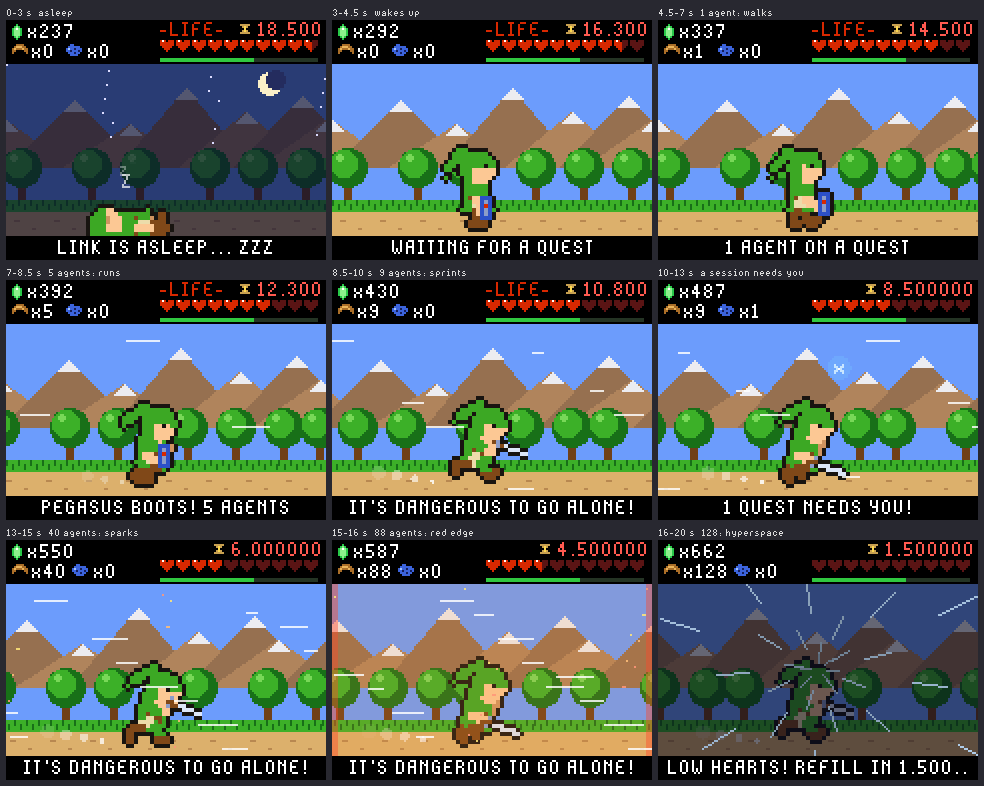
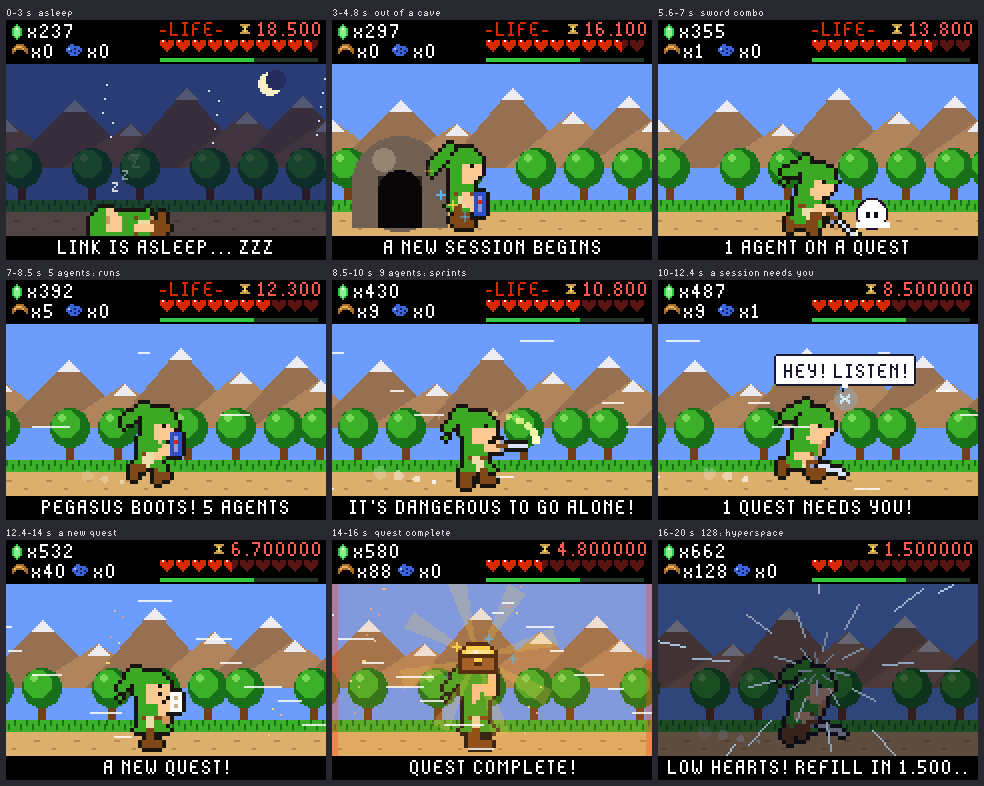
Docs: video shot list and storyboard with the new animations
Claude-Session: https://claude.ai/code/session_01KAaQGm77bCjqrEoZFBN1Bi

diff --git a/tools/sim/video_storyboard.py b/tools/sim/video_storyboard.py
@@ -15,10 +15,11 @@ import scene as S  # noqa: E402
 
 APP = os.path.join(os.path.dirname(TOOLS), "badge", "apps", "burn_helper", "__init__.py")
 OUT = os.path.join(os.path.dirname(TOOLS), "docs", "img", "video_storyboard.png")
-BEATS = ((1.5, "0-3 s  asleep"), (3.7, "3-4.5 s  wakes up"), (5.5, "4.5-7 s  1 agent: walks"),
+BEATS = ((1.5, "0-3 s  asleep"), (3.9, "3-4.8 s  out of a cave"), (6.2, "5.6-7 s  sword combo"),
          (7.7, "7-8.5 s  5 agents: runs"), (9.2, "8.5-10 s  9 agents: sprints"),
-         (11.5, "10-13 s  a session needs you"), (14.0, "13-15 s  40 agents: sparks"),
-         (15.5, "15-16 s  88 agents: red edge"), (18.5, "16-20 s  128: hyperspace"))
+         (11.5, "10-12.4 s  a session needs you"), (13.3, "12.4-14 s  a new quest"),
+         (15.2, "14-16 s  quest complete"), (18.5, "16-20 s  128: hyperspace"))
+T0 = 10000      # the simulated clock when the take starts (keeps warm-up frames positive)
 
 
 def demo_code():
@@ -28,11 +29,11 @@ def demo_code():
 
 
 def main():
-    clock = {"ms": 0}
+    clock = {"ms": T0}
     ns = {"S": S, "st": S.Status(), "view": 0, "demo": 0, "demo_t0": 0,
           "time": types.SimpleNamespace(ticks_ms=lambda: clock["ms"], ticks_diff=lambda a, b: a - b,
-                                        ticks_us=lambda: 0),
-          "views": types.SimpleNamespace(WAITING=3), "prefs": {"theme": "hero"}, "switch": lambda **k: None}
+                                        ticks_add=lambda a, b: a + b, ticks_us=lambda: 0),
+          "views": types.SimpleNamespace(DESKTOP=1), "prefs": {"theme": "hero"}, "switch": lambda **k: None}
     exec(demo_code(), ns)
     ns["set_demo"](2)
     theme = sm.load("hero")
@@ -42,10 +43,12 @@ def main():
     big.clear()
     big.font = pvshim.font.sins
     for i, (sec, label) in enumerate(BEATS):
-        clock["ms"] = int(sec * 1000)
+        clock["ms"] = T0 + int(sec * 1000)
         ns["demo_status"](clock["ms"])
         theme.last_t = None
-        img = sm.render(theme, ns["st"], clock["ms"] + 5000)
+        theme.action = None
+        theme.act_seen = 0
+        img = sm.render(theme, ns["st"], clock["ms"])
         x = pad + (i % cols) * (160 * scale + pad)
         y = pad + (i // cols) * (120 * scale + pad + 14)
         big.pen = pvshim.color(220, 220, 220)

diff --git a/docs/video.md b/docs/video.md
@@ -1,8 +1,8 @@
 # Recording the 20-second demo video
 
 The badge has a hidden demo built for this video: a 20-second take that goes from asleep to
-hyperspace on its own, with a session asking for you in the middle and the hearts draining to
-the end. It shows example numbers only, so nothing personal ends up on camera, and it needs no
+hyperspace on its own, with a sword fight, a session asking for you in the middle, a finished
+quest and the hearts draining to the end. It shows example numbers only, so nothing personal ends up on camera, and it needs no
 Mac, bridge or Wi-Fi. It loops every 20 seconds, so you can record a few loops and keep the best.
 
 ![The take, one frame per beat](img/video_storyboard.png)
@@ -42,24 +42,26 @@ The times are the badge's. Record one continuous shot; the moves below are optio
 | Time | On the badge | Camera | On-screen text (add in the edit) |
 |---|---|---|---|
 | 0-3 s | Asleep under the stars, "LINK IS ASLEEP... ZZZ" | Wide, still | "My conference badge watches my AI agents" |
-| 3-4.5 s | Wakes up and stands | Still | |
-| 4.5-7 s | 1 agent: walks | Start a slow push in | "1 agent: walking" |
+| 3-4.8 s | A session starts: steps out of a cave, "A NEW SESSION BEGINS" | Still | |
+| 4.8-5.6 s | 1 agent: walks | Start a slow push in | "1 agent: walking" |
+| 5.6-7 s | It edits a file: a sword combo on a slime | Push in | "It edits a file: he fights" |
 | 7-8.5 s | 5 agents: runs | Push in | "5 agents: running" |
 | 8.5-10 s | 9 agents: sprints, sword out | Hold | "9: sprinting" |
-| 10-13 s | A session needs you: "HEY! LISTEN!", the waiting counter goes to 1 | Hold | "A session needs me" |
-| 13-16 s | 40, then 88 agents: sparks, then a red pulsing edge | Hold | "40... 88 agents" |
+| 10-12.4 s | A session needs you: "HEY! LISTEN!", the waiting counter goes to 1 | Hold | "A session needs me" |
+| 12.4-14 s | You answer: a new quest scroll drops in, "A NEW QUEST!" | Hold | |
+| 14-16 s | The turn is done: treasure overhead, "QUEST COMPLETE!", while 40 then 88 agents add sparks and a pulsing edge | Hold | "Turn done" |
 | 16-20 s | 128 agents: hyperspace; the hearts are almost gone and the countdown runs out | Slowly to the hearts | "100+ agents: hyperspace. Hearts = usage left" |
 
 End card (1-2 s, added in the edit): **Burn Helper**, "works with Claude Code, open source",
 `github.com/pureyang/burn-helper`.
 
-## Optional voiceover (about 45 words)
+## Optional voiceover (about 55 words)
 
 Record it on the phone afterwards and lay it under the clip:
 
 > "This is the badge from my last conference. Now it watches my Claude Code agents. One agent,
-> he walks. Five, he runs. When a session needs me, he calls me. Over a hundred agents: hyperspace.
-> And the hearts? That's the usage I have left."
+> he walks, and when it edits a file, he fights. Five, he runs. When a session needs me, he calls
+> me. Over a hundred agents: hyperspace. And the hearts? That's the usage I have left."
 
 ## Edit and export
 
